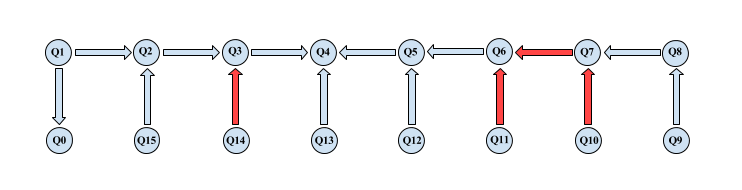
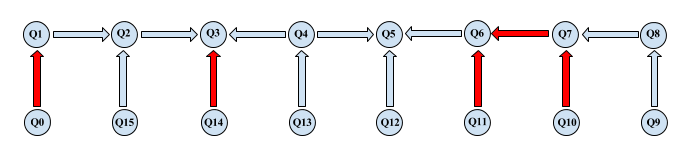
Readme update

Changed region(s): [[0.0307, 0.1258, 0.9839, 0.8553]]

diff --git a/README.md b/README.md
@@ -1,11 +1,7 @@
 # IBMQX Experiments
 The purpose of this repository is to demonstrate entanglement assisted invariance,
-also known as envariance, and parity learning,
+also known as envariance, and parity learning by querying a uniform quantum example oracle,
 using IBM QX series quantum computers.
-
-Here you will find not only the code needed to run the experiments yourself,
-but also the results of ours
-(in case you don't have the time or patience and just want to see the data).
 
 ## Requirements
 
@@ -19,33 +15,37 @@ and have at least 5 credits on that account.
 
 ## Utility
 
+The core of the problem is to find the qubit that is most connected;
+by most connected we mean that it can be connected (directly or not) by means of cnot gates
+to as many other qubits as possible.
+
 [utility.py](https://github.com/DavideFrr/ibmqx_experiments/blob/master/utility.py)
 contains all the functions needed to find the most connected qubit, given coupling-map,
 and than proceed to create the circuits for envariance demonstration and parity learning respectivly.
 
-As already mentioned, the core of the problem is to find the qubit that is most connected;
-by most connected we mean that it can be connected (directly or not) by means of cnot gates
-to as many other qubits as possible.
+We have designed an algorithm that, given the map and the number of qubits to be used in the experiment,
+finds the most connected qubit and start building the GHZ circuit from that qubit. By most connected,
+we mean that the qubit can be reached by as many other qubits as possible
+through directed paths in the coupling map.
 
-The algorithm starts from a source node and explores the paths that goes from there,
-every time a new node is reached, it’s added to the list of visited ones from the previously
-mentioned source node and a counter for the visited node is incremented by one. If during
-the exploration of the paths exiting from the current source node an already visited node
-is reached, the algorithm ignores it and goes back to the previous one (if we have already
-visited that ode starting from the current source, than every path that goes from it has
-already been explored or is going to be).
+The objective is to assign every node _x_ a rank, defined as the number of nodes
+that can reach _x_ along the directed edges of the coupling map.
+The node with the highest rank is then selected as the starting point for building the circuit.
 
 All of the above is done by the [explore()](https://github.com/DavideFrr/ibmqx_experiments/blob/5ce0942c3b50fe4455d19118e54a391c6cdccfa2/utility.py#L55)
-method which is called by the [ranking()](https://github.com/DavideFrr/ibmqx_experiments/blob/5ce0942c3b50fe4455d19118e54a391c6cdccfa2/utility.py#L66)
-method, whose objective is to assign a rank (the counter incremented when a node is reached) to
+function which is called by [ranking()](https://github.com/DavideFrr/ibmqx_experiments/blob/5ce0942c3b50fe4455d19118e54a391c6cdccfa2/utility.py#L66),
+whose objective is to assign a rank (the counter incremented when a node is reached) to
 every node based on how many nodes can reach it. The node with the higher rank will be
 selected as the start point for building our circuit.
 
-After the most connected node/qubit has been found, the [create_path()](https://github.com/DavideFrr/ibmqx_experiments/blob/5ce0942c3b50fe4455d19118e54a391c6cdccfa2/utility.py#L97)
-method explores the map backwards and ﬁrst connects all the qubits for which a classic CNOT gate is feasible.
-Then, it starts connecting the other qubits with inverse-CNOT gates.
-In this way, we can keep the number of gates to a minimum, assuming that every gate
-we add to the circuit brings a certain amount of error with it.
+As soon as the most connected qubit has been found, the [create_path()] function is executed,
+in order to obtain a path connecting all the qubits that must be involved in the GHZ circuit.
+
+The [place_cnot()] function walks the aforementioned path and uses the [cnot()] function
+to put across each node pair either a CNOT or an inverse-CNOT gate,
+depending on the direction of the link dictated by the coupling map.
+Parameter _[k]_ in [place_cnot()] allows to reuse the function to build other circuits
+than GHZ. More specifically, _k=11_ corresponds to the GHZ circuit.
 
 
 _ibmqx5 coupling-map graphic rapresentation_:
@@ -74,14 +74,42 @@ coupling_map_qx5 = {
 ```
 
 
-Below the portion of the coupling-map selected by utility.py:
-# ![qx5_circ_map](images/qx5_circ_map.png)
+_Couplings between qubits in the resulting circuits, for QX4 and QX5 respectively:_
+# ![qx4_circ_map](images/qx4_circ_map.png)![qx5_circ_map](images/qx5_circ_map.png)
 _Red arrows means the use of inverse cnot_
 
 ## Envariance
 
-... ...
+[envariance.py] is were you'll find all you need to tun envariance experiments; the [launch_exp()]
+function will run the circuit for the given number of qubit, shots and coupling-map on the given
+device.
+
+After obtaining the GHZ state, envariance can be experimented by performing a swap,
+using Pauli-X gates, on the first
+![n/2](http://latex.codecogs.com/gif.latex?\left&space;\lceil&space;n/2&space;\right&space;\rceil)
+and after that another swap
+to the remaining
+![n/2](http://latex.codecogs.com/gif.latex?\left&space;\lfloor&space;n/2&space;\right&space;\rfloor)
+qubits.
+
+All results of the executions will be stored in txt and xlsx files for later use.
+More info in the code.
+
+# ![qx4_5-qubits_env_circ](images/qx4_5-qubits_env_circ.png)
+# ![qx5_16-qubits_env_circ](images/qx5_16-qubits_env_circ.png)
+_Envariance circuits with 5 qubits and 16 qubits, for QX4 and QX5 respectively_
 
 ## Parity
 
-... ...
+[parity.py] will run parity learning experiments; the [launch_exp()]
+function will run the circuit for the given number of qubit, queries, coupling-map and _k_;
+_k_ can either be '11', '10' or '00' and represent the type of string that will be learned
+by the oracle.
+
+All results of the executions will be stored in txt and xlsx files for later use.
+More info in the code.
+
+# ![qx5_16-qubits_par-00_circ](images/qx5_16-qubits_par-00_circ.png)
+# ![qx5_16-qubits_par-10_circ](images/qx5_16-qubits_par-10_circ.png)
+# ![qx5_16-qubits_par-11_circ](images/qx5_16-qubits_par-11_circ.png)
+_Parity circuits with 15 qubits on QX5, for k='00', k='10' and k='11' respectively_
